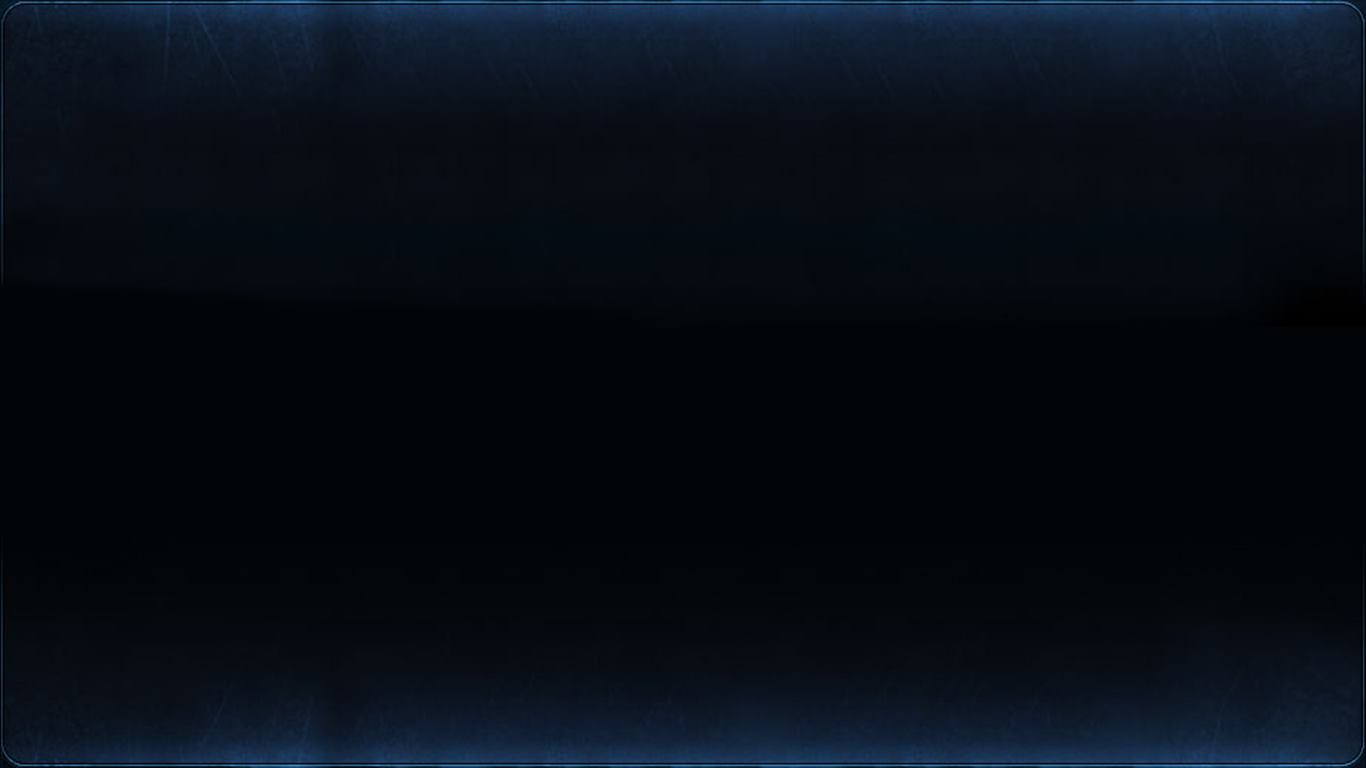
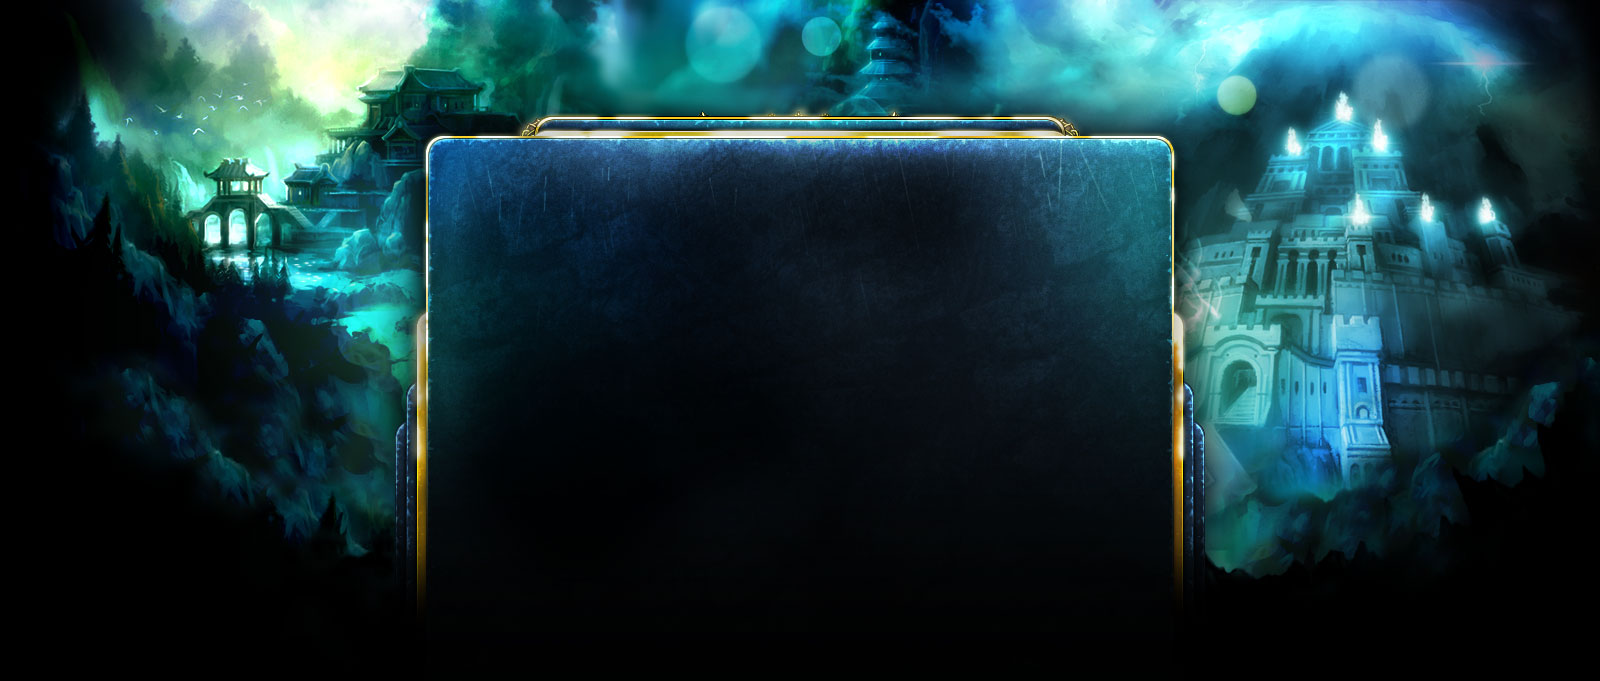
Design changes

diff --git a/style.css b/style.css
@@ -23,7 +23,8 @@ h5 {
   min-height: 100%;
   background-position: center;
   background-size: cover;
-  background-attachment: fixed;
+  background-repeat: no-repeat;
+  background-color: black;
 }
 
 .head-icon {

diff --git a/index.php b/index.php
@@ -22,7 +22,7 @@
 </head>
 
 <body class="bgimg container">
-    <div class="row no-gutters">
+    <div class="row no-gutters" style="padding-top:250px;">
         <?php
             for($i=0; $i<count($players); $i++) {
                 //getPlayerCard($players[$i], $i+1);
